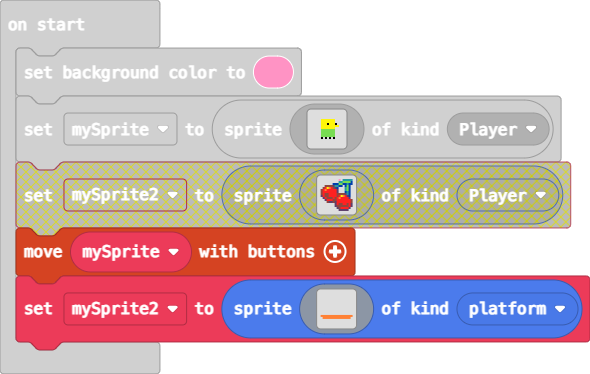
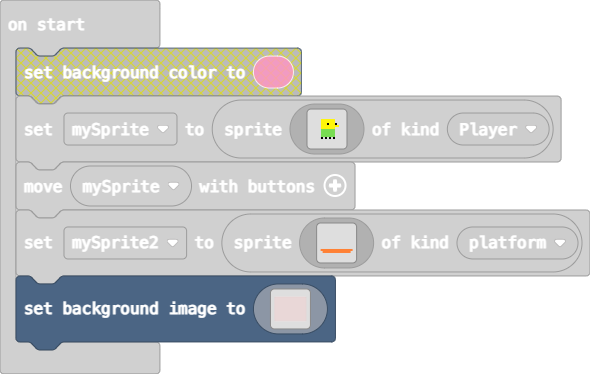
Update main.blocks, main.ts

diff --git a/main.ts b/main.ts
@@ -1,7 +1,128 @@
 namespace SpriteKind {
     export const platform = SpriteKind.create()
 }
-scene.setBackgroundColor(3)
 let mySprite = sprites.create(assets.image`myImage0`, SpriteKind.Player)
 controller.moveSprite(mySprite)
 let mySprite2 = sprites.create(assets.image`myImage1`, SpriteKind.platform)
+scene.setBackgroundImage(img`
+    dddddddddddddddddddddddddddddddddddddddddddddddddddddddddddddddddddddddddddddddddddddddddddddddddddddddddddddddddddddddddddddddddddddddddddddddddddddddddddddddd
+    dddddddddddddddddddddddddddddddddddddddddddddddddddddddddddddddddddddddddddddddddddddddddddddddddddddddddddddddddddddddddddddddddddddddddddddddddddddddddddddddd
+    dddddddddddddddddddddddddddddddddddddddddddddddddddddddddddddddddddddddddddddddddddddddddddddddddddddddddddddddddddddddddddddddddddddddddddddddddddddddddddddddd
+    dddddddddddddddddddddddddddddddddddddddddddddddddddddddddddddddddddddddddddddddddddddddddddddddddddddddddddddddddddddddddddddddddddddddddddddddddddddddddddddddd
+    dddddddddddddddddddddddddddddddddddddddddddddddddddddddddddddddddddddddddddddddddddddddddddddddddddddddddddddddddddddddddddddddddddddddddddddddddddddddddddddddd
+    dddddddddddddddddddddddddddddddddddddddddddddddddddddddddddddddddddddddddddddddddddddddddddddddddddddddddddddddddddddddddddddddddddddddddddddddddddddddddddddddd
+    dddddddddddddddddddddddddddddddddddddddddddddddddddddddddddddddddddddddddddddddddddddddddddddddddddddddddddddddddddddddddddddddddddddddddddddddddddddddddddddddd
+    dddddddddddddddddddddddddddddddddddddddddddddddddddddddddddddddddddddddddddddddddddddddddddddddddddddddddddddddddddddddddddddddddddddddddddddddddddddddddddddddd
+    dddddddddddddddddddddddddddddddddddddddddddddddddddddddddddddddddddddddddddddddddddddddddddddddddddddddddddddddddddddddddddddddddddddddddddddddddddddddddddddddd
+    dddddddddddddddddddddddddddddddddddddddddddddddddddddddddddddddddddddddddddddddddddddddddddddddddddddddddddddddddddddddddddddddddddddddddddddddddddddddddddddddd
+    dddddddddddddddddddddddddddddddddddddddddddddddddddddddddddddddddddddddddddddddddddddddddddddddddddddddddddddddddddddddddddddddddddddddddddddddddddddddddddddddd
+    dddddddddddddddddddddddddddddddddddddddddddddddddddddddddddddddddddddddddddddddddddddddddddddddddddddddddddddddddddddddddddddddddddddddddddddddddddddddddddddddd
+    dddddddddddddddddddddddddddddddddddddddddddddddddddddddddddddddddddddddddddddddddddddddddddddddddddddddddddddddddddddddddddddddddddddddddddddddddddddddddddddddd
+    dddddddddddddddddddddddddddddddddddddddddddddddddddddddddddddddddddddddddddddddddddddddddddddddddddddddddddddddddddddddddddddddddddddddddddddddddddddddddddddddd
+    dddddddddddddddddddddddddddddddddddddddddddddddddddddddddddddddddddddddddddddddddddddddddddddddddddddddddddddddddddddddddddddddddddddddddddddddddddddddddddddddd
+    dddddddddddddddddddddddddddddddddddddddddddddddddddddddddddddddddddddddddddddddddddddddddddddddddddddddddddddddddddddddddddddddddddddddddddddddddddddddddddddddd
+    dddddddddddddddddddddddddddddddddddddddddddddddddddddddddddddddddddddddddddddddddddddddddddddddddddddddddddddddddddddddddddddddddddddddddddddddddddddddddddddddd
+    dddddddddddddddddddddddddddddddddddddddddddddddddddddddddddddddddddddddddddddddddddddddddddddddddddddddddddddddddddddddddddddddddddddddddddddddddddddddddddddddd
+    dddddddddddddddddddddddddddddddddddddddddddddddddddddddddddddddddddddddddddddddddddddddddddddddddddddddddddddddddddddddddddddddddddddddddddddddddddddddddddddddd
+    dddddddddddddddddddddddddddddddddddddddddddddddddddddddddddddddddddddddddddddddddddddddddddddddddddddddddddddddddddddddddddddddddddddddddddddddddddddddddddddddd
+    dddddddddddddddddddddddddddddddddddddddddddddddddddddddddddddddddddddddddddddddddddddddddddddddddddddddddddddddddddddddddddddddddddddddddddddddddddddddddddddddd
+    dddddddddddddddddddddddddddddddddddddddddddddddddddddddddddddddddddddddddddddddddddddddddddddddddddddddddddddddddddddddddddddddddddddddddddddddddddddddddddddddd
+    dddddddddddddddddddddddddddddddddddddddddddddddddddddddddddddddddddddddddddddddddddddddddddddddddddddddddddddddddddddddddddddddddddddddddddddddddddddddddddddddd
+    dddddddddddddddddddddddddddddddddddddddddddddddddddddddddddddddddddddddddddddddddddddddddddddddddddddddddddddddddddddddddddddddddddddddddddddddddddddddddddddddd
+    dddddddddddddddddddddddddddddddddddddddddddddddddddddddddddddddddddddddddddddddddddddddddddddddddddddddddddddddddddddddddddddddddddddddddddddddddddddddddddddddd
+    dddddddddddddddddddddddddddddddddddddddddddddddddddddddddddddddddddddddddddddddddddddddddddddddddddddddddddddddddddddddddddddddddddddddddddddddddddddddddddddddd
+    dddddddddddddddddddddddddddddddddddddddddddddddddddddddddddddddddddddddddddddddddddddddddddddddddddddddddddddddddddddddddddddddddddddddddddddddddddddddddddddddd
+    dddddddddddddddddddddddddddddddddddddddddddddddddddddddddddddddddddddddddddddddddddddddddddddddddddddddddddddddddddddddddddddddddddddddddddddddddddddddddddddddd
+    dddddddddddddddddddddddddddddddddddddddddddddddddddddddddddddddddddddddddddddddddddddddddddddddddddddddddddddddddddddddddddddddddddddddddddddddddddddddddddddddd
+    dddddddddddddddddddddddddddddddddddddddddddddddddddddddddddddddddddddddddddddddddddddddddddddddddddddddddddddddddddddddddddddddddddddddddddddddddddddddddddddddd
+    dddddddddddddddddddddddddddddddddddddddddddddddddddddddddddddddddddddddddddddddddddddddddddddddddddddddddddddddddddddddddddddddddddddddddddddddddddddddddddddddd
+    dddddddddddddddddddddddddddddddddddddddddddddddddddddddddddddddddddddddddddddddddddddddddddddddddddddddddddddddddddddddddddddddddddddddddddddddddddddddddddddddd
+    dddddddddddddddddddddddddddddddddddddddddddddddddddddddddddddddddddddddddddddddddddddddddddddddddddddddddddddddddddddddddddddddddddddddddddddddddddddddddddddddd
+    dddddddddddddddddddddddddddddddddddddddddddddddddddddddddddddddddddddddddddddddddddddddddddddddddddddddddddddddddddddddddddddddddddddddddddddddddddddddddddddddd
+    dddddddddddddddddddddddddddddddddddddddddddddddddddddddddddddddddddddddddddddddddddddddddddddddddddddddddddddddddddddddddddddddddddddddddddddddddddddddddddddddd
+    dddddddddddddddddddddddddddddddddddddddddddddddddddddddddddddddddddddddddddddddddddddddddddddddddddddddddddddddddddddddddddddddddddddddddddddddddddddddddddddddd
+    dddddddddddddddddddddddddddddddddddddddddddddddddddddddddddddddddddddddddddddddddddddddddddddddddddddddddddddddddddddddddddddddddddddddddddddddddddddddddddddddd
+    dddddddddddddddddddddddddddddddddddddddddddddddddddddddddddddddddddddddddddddddddddddddddddddddddddddddddddddddddddddddddddddddddddddddddddddddddddddddddddddddd
+    dddddddddddddddddddddddddddddddddddddddddddddddddddddddddddddddddddddddddddddddddddddddddddddddddddddddddddddddddddddddddddddddddddddddddddddddddddddddddddddddd
+    dddddddddddddddddddddddddddddddddddddddddddddddddddddddddddddddddddddddddddddddddddddddddddddddddddddddddddddddddddddddddddddddddddddddddddddddddddddddddddddddd
+    dddddddddddddddddddddddddddddddddddddddddddddddddddddddddddddddddddddddddddddddddddddddddddddddddddddddddddddddddddddddddddddddddddddddddddddddddddddddddddddddd
+    dddddddddddddddddddddddddddddddddddddddddddddddddddddddddddddddddddddddddddddddddddddddddddddddddddddddddddddddddddddddddddddddddddddddddddddddddddddddddddddddd
+    dddddddddddddddddddddddddddddddddddddddddddddddddddddddddddddddddddddddddddddddddddddddddddddddddddddddddddddddddddddddddddddddddddddddddddddddddddddddddddddddd
+    dddddddddddddddddddddddddddddddddddddddddddddddddddddddddddddddddddddddddddddddddddddddddddddddddddddddddddddddddddddddddddddddddddddddddddddddddddddddddddddddd
+    dddddddddddddddddddddddddddddddddddddddddddddddddddddddddddddddddddddddddddddddddddddddddddddddddddddddddddddddddddddddddddddddddddddddddddddddddddddddddddddddd
+    dddddddddddddddddddddddddddddddddddddddddddddddddddddddddddddddddddddddddddddddddddddddddddddddddddddddddddddddddddddddddddddddddddddddddddddddddddddddddddddddd
+    dddddddddddddddddddddddddddddddddddddddddddddddddddddddddddddddddddddddddddddddddddddddddddddddddddddddddddddddddddddddddddddddddddddddddddddddddddddddddddddddd
+    dddddddddddddddddddddddddddddddddddddddddddddddddddddddddddddddddddddddddddddddddddddddddddddddddddddddddddddddddddddddddddddddddddddddddddddddddddddddddddddddd
+    dddddddddddddddddddddddddddddddddddddddddddddddddddddddddddddddddddddddddddddddddddddddddddddddddddddddddddddddddddddddddddddddddddddddddddddddddddddddddddddddd
+    dddddddddddddddddddddddddddddddddddddddddddddddddddddddddddddddddddddddddddddddddddddddddddddddddddddddddddddddddddddddddddddddddddddddddddddddddddddddddddddddd
+    dddddddddddddddddddddddddddddddddddddddddddddddddddddddddddddddddddddddddddddddddddddddddddddddddddddddddddddddddddddddddddddddddddddddddddddddddddddddddddddddd
+    dddddddddddddddddddddddddddddddddddddddddddddddddddddddddddddddddddddddddddddddddddddddddddddddddddddddddddddddddddddddddddddddddddddddddddddddddddddddddddddddd
+    dddddddddddddddddddddddddddddddddddddddddddddddddddddddddddddddddddddddddddddddddddddddddddddddddddddddddddddddddddddddddddddddddddddddddddddddddddddddddddddddd
+    dddddddddddddddddddddddddddddddddddddddddddddddddddddddddddddddddddddddddddddddddddddddddddddddddddddddddddddddddddddddddddddddddddddddddddddddddddddddddddddddd
+    dddddddddddddddddddddddddddddddddddddddddddddddddddddddddddddddddddddddddddddddddddddddddddddddddddddddddddddddddddddddddddddddddddddddddddddddddddddddddddddddd
+    dddddddddddddddddddddddddddddddddddddddddddddddddddddddddddddddddddddddddddddddddddddddddddddddddddddddddddddddddddddddddddddddddddddddddddddddddddddddddddddddd
+    dddddddddddddddddddddddddddddddddddddddddddddddddddddddddddddddddddddddddddddddddddddddddddddddddddddddddddddddddddddddddddddddddddddddddddddddddddddddddddddddd
+    dddddddddddddddddddddddddddddddddddddddddddddddddddddddddddddddddddddddddddddddddddddddddddddddddddddddddddddddddddddddddddddddddddddddddddddddddddddddddddddddd
+    dddddddddddddddddddddddddddddddddddddddddddddddddddddddddddddddddddddddddddddddddddddddddddddddddddddddddddddddddddddddddddddddddddddddddddddddddddddddddddddddd
+    dddddddddddddddddddddddddddddddddddddddddddddddddddddddddddddddddddddddddddddddddddddddddddddddddddddddddddddddddddddddddddddddddddddddddddddddddddddddddddddddd
+    dddddddddddddddddddddddddddddddddddddddddddddddddddddddddddddddddddddddddddddddddddddddddddddddddddddddddddddddddddddddddddddddddddddddddddddddddddddddddddddddd
+    dddddddddddddddddddddddddddddddddddddddddddddddddddddddddddddddddddddddddddddddddddddddddddddddddddddddddddddddddddddddddddddddddddddddddddddddddddddddddddddddd
+    dddddddddddddddddddddddddddddddddddddddddddddddddddddddddddddddddddddddddddddddddddddddddddddddddddddddddddddddddddddddddddddddddddddddddddddddddddddddddddddddd
+    dddddddddddddddddddddddddddddddddddddddddddddddddddddddddddddddddddddddddddddddddddddddddddddddddddddddddddddddddddddddddddddddddddddddddddddddddddddddddddddddd
+    dddddddddddddddddddddddddddddddddddddddddddddddddddddddddddddddddddddddddddddddddddddddddddddddddddddddddddddddddddddddddddddddddddddddddddddddddddddddddddddddd
+    dddddddddddddddddddddddddddddddddddddddddddddddddddddddddddddddddddddddddddddddddddddddddddddddddddddddddddddddddddddddddddddddddddddddddddddddddddddddddddddddd
+    dddddddddddddddddddddddddddddddddddddddddddddddddddddddddddddddddddddddddddddddddddddddddddddddddddddddddddddddddddddddddddddddddddddddddddddddddddddddddddddddd
+    dddddddddddddddddddddddddddddddddddddddddddddddddddddddddddddddddddddddddddddddddddddddddddddddddddddddddddddddddddddddddddddddddddddddddddddddddddddddddddddddd
+    dddddddddddddddddddddddddddddddddddddddddddddddddddddddddddddddddddddddddddddddddddddddddddddddddddddddddddddddddddddddddddddddddddddddddddddddddddddddddddddddd
+    dddddddddddddddddddddddddddddddddddddddddddddddddddddddddddddddddddddddddddddddddddddddddddddddddddddddddddddddddddddddddddddddddddddddddddddddddddddddddddddddd
+    dddddddddddddddddddddddddddddddddddddddddddddddddddddddddddddddddddddddddddddddddddddddddddddddddddddddddddddddddddddddddddddddddddddddddddddddddddddddddddddddd
+    dddddddddddddddddddddddddddddddddddddddddddddddddddddddddddddddddddddddddddddddddddddddddddddddddddddddddddddddddddddddddddddddddddddddddddddddddddddddddddddddd
+    dddddddddddddddddddddddddddddddddddddddddddddddddddddddddddddddddddddddddddddddddddddddddddddddddddddddddddddddddddddddddddddddddddddddddddddddddddddddddddddddd
+    dddddddddddddddddddddddddddddddddddddddddddddddddddddddddddddddddddddddddddddddddddddddddddddddddddddddddddddddddddddddddddddddddddddddddddddddddddddddddddddddd
+    dddddddddddddddddddddddddddddddddddddddddddddddddddddddddddddddddddddddddddddddddddddddddddddddddddddddddddddddddddddddddddddddddddddddddddddddddddddddddddddddd
+    dddddddddddddddddddddddddddddddddddddddddddddddddddddddddddddddddddddddddddddddddddddddddddddddddddddddddddddddddddddddddddddddddddddddddddddddddddddddddddddddd
+    dddddddddddddddddddddddddddddddddddddddddddddddddddddddddddddddddddddddddddddddddddddddddddddddddddddddddddddddddddddddddddddddddddddddddddddddddddddddddddddddd
+    dddddddddddddddddddddddddddddddddddddddddddddddddddddddddddddddddddddddddddddddddddddddddddddddddddddddddddddddddddddddddddddddddddddddddddddddddddddddddddddddd
+    dddddddddddddddddddddddddddddddddddddddddddddddddddddddddddddddddddddddddddddddddddddddddddddddddddddddddddddddddddddddddddddddddddddddddddddddddddddddddddddddd
+    dddddddddddddddddddddddddddddddddddddddddddddddddddddddddddddddddddddddddddddddddddddddddddddddddddddddddddddddddddddddddddddddddddddddddddddddddddddddddddddddd
+    dddddddddddddddddddddddddddddddddddddddddddddddddddddddddddddddddddddddddddddddddddddddddddddddddddddddddddddddddddddddddddddddddddddddddddddddddddddddddddddddd
+    dddddddddddddddddddddddddddddddddddddddddddddddddddddddddddddddddddddddddddddddddddddddddddddddddddddddddddddddddddddddddddddddddddddddddddddddddddddddddddddddd
+    dddddddddddddddddddddddddddddddddddddddddddddddddddddddddddddddddddddddddddddddddddddddddddddddddddddddddddddddddddddddddddddddddddddddddddddddddddddddddddddddd
+    dddddddddddddddddddddddddddddddddddddddddddddddddddddddddddddddddddddddddddddddddddddddddddddddddddddddddddddddddddddddddddddddddddddddddddddddddddddddddddddddd
+    dddddddddddddddddddddddddddddddddddddddddddddddddddddddddddddddddddddddddddddddddddddddddddddddddddddddddddddddddddddddddddddddddddddddddddddddddddddddddddddddd
+    dddddddddddddddddddddddddddddddddddddddddddddddddddddddddddddddddddddddddddddddddddddddddddddddddddddddddddddddddddddddddddddddddddddddddddddddddddddddddddddddd
+    dddddddddddddddddddddddddddddddddddddddddddddddddddddddddddddddddddddddddddddddddddddddddddddddddddddddddddddddddddddddddddddddddddddddddddddddddddddddddddddddd
+    dddddddddddddddddddddddddddddddddddddddddddddddddddddddddddddddddddddddddddddddddddddddddddddddddddddddddddddddddddddddddddddddddddddddddddddddddddddddddddddddd
+    dddddddddddddddddddddddddddddddddddddddddddddddddddddddddddddddddddddddddddddddddddddddddddddddddddddddddddddddddddddddddddddddddddddddddddddddddddddddddddddddd
+    dddddddddddddddddddddddddddddddddddddddddddddddddddddddddddddddddddddddddddddddddddddddddddddddddddddddddddddddddddddddddddddddddddddddddddddddddddddddddddddddd
+    dddddddddddddddddddddddddddddddddddddddddddddddddddddddddddddddddddddddddddddddddddddddddddddddddddddddddddddddddddddddddddddddddddddddddddddddddddddddddddddddd
+    dddddddddddddddddddddddddddddddddddddddddddddddddddddddddddddddddddddddddddddddddddddddddddddddddddddddddddddddddddddddddddddddddddddddddddddddddddddddddddddddd
+    dddddddddddddddddddddddddddddddddddddddddddddddddddddddddddddddddddddddddddddddddddddddddddddddddddddddddddddddddddddddddddddddddddddddddddddddddddddddddddddddd
+    dddddddddddddddddddddddddddddddddddddddddddddddddddddddddddddddddddddddddddddddddddddddddddddddddddddddddddddddddddddddddddddddddddddddddddddddddddddddddddddddd
+    dddddddddddddddddddddddddddddddddddddddddddddddddddddddddddddddddddddddddddddddddddddddddddddddddddddddddddddddddddddddddddddddddddddddddddddddddddddddddddddddd
+    dddddddddddddddddddddddddddddddddddddddddddddddddddddddddddddddddddddddddddddddddddddddddddddddddddddddddddddddddddddddddddddddddddddddddddddddddddddddddddddddd
+    dddddddddddddddddddddddddddddddddddddddddddddddddddddddddddddddddddddddddddddddddddddddddddddddddddddddddddddddddddddddddddddddddddddddddddddddddddddddddddddddd
+    dddddddddddddddddddddddddddddddddddddddddddddddddddddddddddddddddddddddddddddddddddddddddddddddddddddddddddddddddddddddddddddddddddddddddddddddddddddddddddddddd
+    dddddddddddddddddddddddddddddddddddddddddddddddddddddddddddddddddddddddddddddddddddddddddddddddddddddddddddddddddddddddddddddddddddddddddddddddddddddddddddddddd
+    dddddddddddddddddddddddddddddddddddddddddddddddddddddddddddddddddddddddddddddddddddddddddddddddddddddddddddddddddddddddddddddddddddddddddddddddddddddddddddddddd
+    dddddddddddddddddddddddddddddddddddddddddddddddddddddddddddddddddddddddddddddddddddddddddddddddddddddddddddddddddddddddddddddddddddddddddddddddddddddddddddddddd
+    dddddddddddddddddddddddddddddddddddddddddddddddddddddddddddddddddddddddddddddddddddddddddddddddddddddddddddddddddddddddddddddddddddddddddddddddddddddddddddddddd
+    dddddddddddddddddddddddddddddddddddddddddddddddddddddddddddddddddddddddddddddddddddddddddddddddddddddddddddddddddddddddddddddddddddddddddddddddddddddddddddddddd
+    dddddddddddddddddddddddddddddddddddddddddddddddddddddddddddddddddddddddddddddddddddddddddddddddddddddddddddddddddddddddddddddddddddddddddddddddddddddddddddddddd
+    dddddddddddddddddddddddddddddddddddddddddddddddddddddddddddddddddddddddddddddddddddddddddddddddddddddddddddddddddddddddddddddddddddddddddddddddddddddddddddddddd
+    dddddddddddddddddddddddddddddddddddddddddddddddddddddddddddddddddddddddddddddddddddddddddddddddddddddddddddddddddddddddddddddddddddddddddddddddddddddddddddddddd
+    dddddddddddddddddddddddddddddddddddddddddddddddddddddddddddddddddddddddddddddddddddddddddddddddddddddddddddddddddddddddddddddddddddddddddddddddddddddddddddddddd
+    dddddddddddddddddddddddddddddddddddddddddddddddddddddddddddddddddddddddddddddddddddddddddddddddddddddddddddddddddddddddddddddddddddddddddddddddddddddddddddddddd
+    dddddddddddddddddddddddddddddddddddddddddddddddddddddddddddddddddddddddddddddddddddddddddddddddddddddddddddddddddddddddddddddddddddddddddddddddddddddddddddddddd
+    dddddddddddddddddddddddddddddddddddddddddddddddddddddddddddddddddddddddddddddddddddddddddddddddddddddddddddddddddddddddddddddddddddddddddddddddddddddddddddddddd
+    dddddddddddddddddddddddddddddddddddddddddddddddddddddddddddddddddddddddddddddddddddddddddddddddddddddddddddddddddddddddddddddddddddddddddddddddddddddddddddddddd
+    dddddddddddddddddddddddddddddddddddddddddddddddddddddddddddddddddddddddddddddddddddddddddddddddddddddddddddddddddddddddddddddddddddddddddddddddddddddddddddddddd
+    dddddddddddddddddddddddddddddddddddddddddddddddddddddddddddddddddddddddddddddddddddddddddddddddddddddddddddddddddddddddddddddddddddddddddddddddddddddddddddddddd
+    dddddddddddddddddddddddddddddddddddddddddddddddddddddddddddddddddddddddddddddddddddddddddddddddddddddddddddddddddddddddddddddddddddddddddddddddddddddddddddddddd
+    dddddddddddddddddddddddddddddddddddddddddddddddddddddddddddddddddddddddddddddddddddddddddddddddddddddddddddddddddddddddddddddddddddddddddddddddddddddddddddddddd
+    dddddddddddddddddddddddddddddddddddddddddddddddddddddddddddddddddddddddddddddddddddddddddddddddddddddddddddddddddddddddddddddddddddddddddddddddddddddddddddddddd
+    dddddddddddddddddddddddddddddddddddddddddddddddddddddddddddddddddddddddddddddddddddddddddddddddddddddddddddddddddddddddddddddddddddddddddddddddddddddddddddddddd
+    dddddddddddddddddddddddddddddddddddddddddddddddddddddddddddddddddddddddddddddddddddddddddddddddddddddddddddddddddddddddddddddddddddddddddddddddddddddddddddddddd
+    dddddddddddddddddddddddddddddddddddddddddddddddddddddddddddddddddddddddddddddddddddddddddddddddddddddddddddddddddddddddddddddddddddddddddddddddddddddddddddddddd
+    dddddddddddddddddddddddddddddddddddddddddddddddddddddddddddddddddddddddddddddddddddddddddddddddddddddddddddddddddddddddddddddddddddddddddddddddddddddddddddddddd
+    `)
